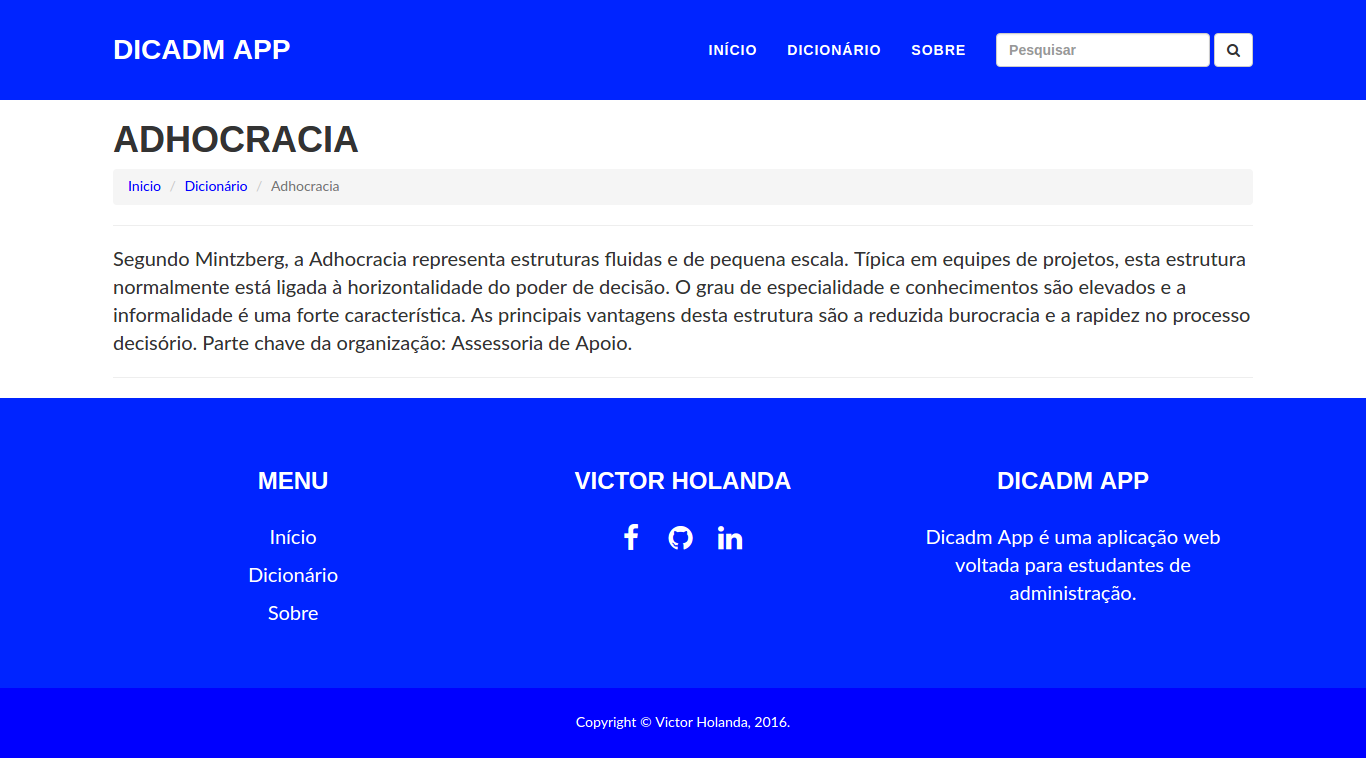
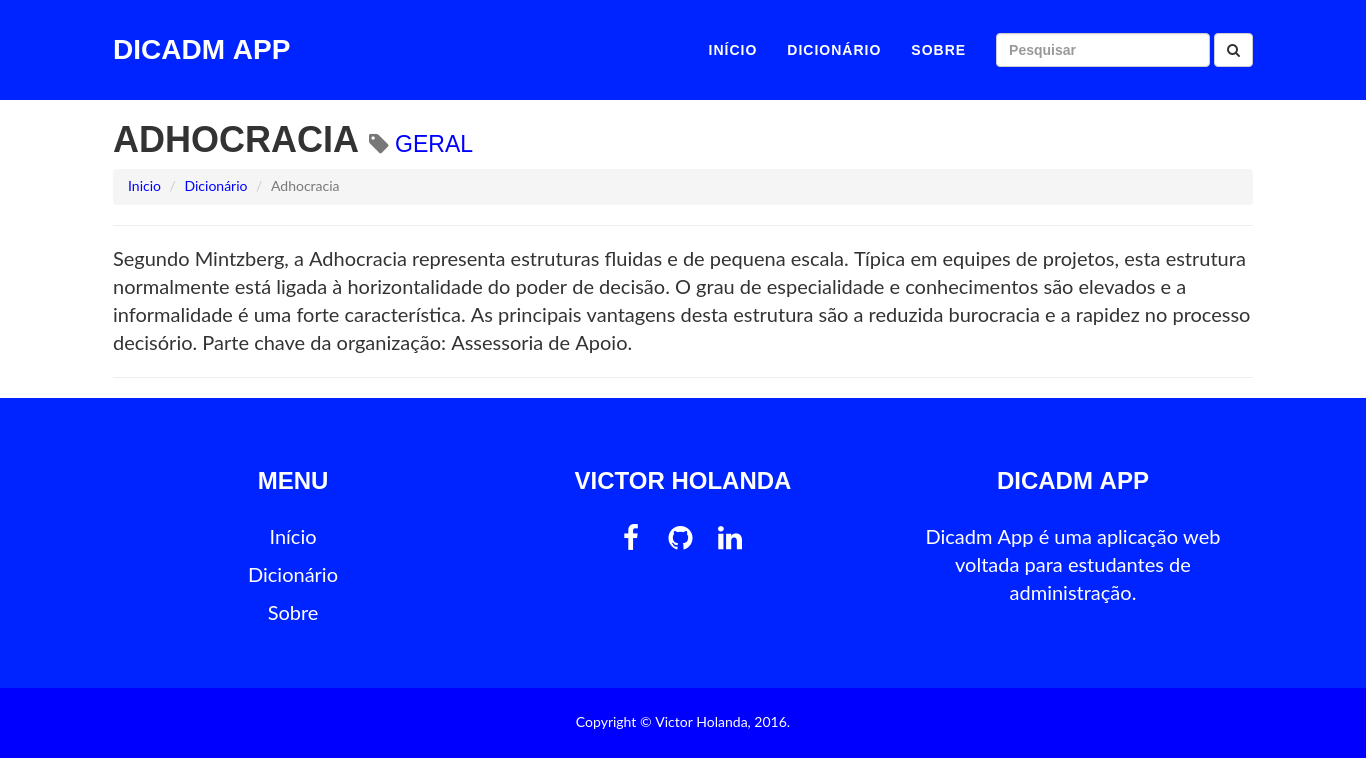
Added Category to Words

diff --git a/dicadm_django/dictionary/templates/dictionary/index.html b/dicadm_django/dictionary/templates/dictionary/index.html
@@ -6,15 +6,28 @@
 	<div class="container" style="margin-top:80px;">
 		
 	<div class="page-header">
-		<h1>{{title}}</h1>
+		<h1>{{title}}
+			{%if querycat%}<small><i class="fa fa-tag" aria-hidden="true"></i> {{querycat}}</small>{%endif%}
+		</h1>
 	</div>
-	<div>
-		<div class="list-group">
+	<div class="row">
+		<div class="list-group col-md-8">
 			{% for word in words %}
 				<a href="{{word.get_absolute_url}}" class="list-group-item">{{word}}</a>
 			{% empty %}
 				<a href="#" class="list-group-item">
-					Nenhum resultado encontrado para <strong>{{queryset}}</strong>! Por favor, tente outra palavra :).
+					Nenhum resultado encontrado{% if queryset != None %} para <strong>{{queryset}}</strong>{%endif%}! Por favor, tente outra palavra :).
+				</a>
+			{% endfor %}
+		</div>
+		<div class="list-group col-md-4">
+			<a href="" class="list-group-item active"><i class="fa fa-tag" aria-hidden="true"></i> Categorias</a>
+			<a href="?cat=todas" class="list-group-item">Todas</a>
+			{% for category in categories%}
+				<a href="?cat={{category.slug}}" class="list-group-item">{{category}}</a>
+			{% empty%}
+				<a href="#" class="list-group-item">
+					Categorias não encontradas
 				</a>
 			{% endfor %}
 		</div>
@@ -24,16 +37,26 @@
 		<nav class="text-center">
 		  <ul class="pagination">
 	        {% if words.has_previous %}
-		    	<li class="previous"><a href="?page={{ words.previous_page_number }}{%if request.GET.q %}&q={{ request.GET.q}}{% endif %}"><span aria-hidden="true">&laquo;</span></a></li>
+		    	<li class="previous">
+		    		<a href="?page={{ words.previous_page_number }}{%if request.GET.cat %}&cat={{ request.GET.cat}}{% endif %}{%if request.GET.q %}&q={{ request.GET.q}}{% endif %}">
+		    			<span aria-hidden="true">&laquo;</span>
+		    		</a>
+		    	</li>
 	        {% endif %}
 
 	       	{% for p in words.paginator.page_range %}
-			  <li {% if words.number == p %} class="active" {%endif%}><a href="?page={{p}}{%if request.GET.q %}&q={{ request.GET.q}}{% endif %}">{{p}}</a></li>
+			  <li {% if words.number == p %} class="active" {%endif%}>
+			  	<a href="?page={{p}}{%if request.GET.cat %}&cat={{ request.GET.cat}}{% endif %}{%if request.GET.q %}&q={{ request.GET.q}}{% endif %}">{{p}}</a>
+			  </li>
 	       	{% endfor %}
 
 
 	        {% if words.has_next %}
-		    	<li class="next"><a href="?page={{ words.next_page_number }}{%if request.GET.q %}&q={{ request.GET.q}}{% endif %}"><span aria-hidden="true">&raquo;</span></a></li>
+		    	<li class="next">
+		    		<a href="?page={{ words.next_page_number }}{%if request.GET.cat %}&cat={{ request.GET.cat}}{% endif %}{%if request.GET.q %}&q={{ request.GET.q}}{% endif %}">
+		    			<span aria-hidden="true">&raquo;</span>
+		    		</a>
+		    	</li>
 	        {% endif %}
 		  </ul>
 		</nav>

diff --git a/dicadm_django/dictionary/templates/dictionary/detail.html b/dicadm_django/dictionary/templates/dictionary/detail.html
@@ -7,7 +7,11 @@
 		
 
 	<div class="page-header">
-		<h1>{{word}}</h1>
+		<h1>{{word}} 
+			<small><i class="fa fa-tag" aria-hidden="true"></i>
+			<a href="{% url 'dictionary:index' %}?&cat={{word.category.slug}}">{{word.category}}</a>
+			</small>
+		</h1>
 		<ol class="breadcrumb">
 		  <li><a href="{% url 'core:index' %}">Inicio</a></li>
 		  <li><a href="{% url 'dictionary:index' %}">Dicionário</a></li>

diff --git a/populate.py b/populate.py
@@ -1,0 +1,105 @@
+import os
+
+
+# configuração vista em tango with django 1.9
+
+os.environ.setdefault('DJANGO_SETTINGS_MODULE',
+				'dicadm_django.settings')
+
+import django
+django.setup()
+
+from dicadm_django.dictionary.models import Category, Word
+
+def populate():
+	# First, we will create lists of dictionaries containing the words
+	# we want to add into each category.
+	# Then we will create a dictionary of dictionaries for our categories.
+	# This might seem a little bit confusing, but it allows us to iterate
+	# through each data structure, and add the data to our models.
+
+	# e.g. Administração Financeira
+	# af_words = [
+	# 	{
+	# 		"title": "Balanço Patrimonial BP", 
+	# 		"slug": "balanco-patrimonial-bp", 
+	# 		"description" :"É a demonstração contábil que tem por finalidade apresentar a situação patrimonial da empresa em determinado momento, e a sua composição e apresentação seguem o ritual definido pelo Conselho Federal de Contabilidade e pela Legislação Comercial, quanto à sua forma e à necessidade de serem elaborados por um profissional legalmente habilitado, para se ter credibilidade necessária junto aos órgãos  públicos,  instituições  financeiras  e  até  mesmo  aos  fornecedores."
+	# 	},
+	# ]
+
+	# Administração Geral
+	ag_words = [
+		{"title": "Adhocracia", "slug": "adhocracia", "description" :"Segundo Mintzberg, a Adhocracia representa estruturas fluidas e de pequena escala. Típica em equipes de projetos, esta estrutura normalmente está ligada à horizontalidade do poder de decisão. O grau de especialidade e conhecimentos são elevados e a informalidade é uma forte característica. As principais vantagens desta estrutura são a reduzida burocracia e a rapidez no processo decisório. Parte chave da organização: Assessoria de Apoio."	},
+		{"title": "Administração", "slug": "administracao", "description" :"A palavra Administração vem do latim, ad– que significa direção, tendência para, e minister – que significa subordinação ou obediência, ou seja, quem realiza uma função sob comando de outra ou presta serviço a outro, (CHIAVENATO, 2003)."},
+	]
+
+	# Administração Financeira
+	af_words = [
+		{"title": "Balanço Patrimonial BP", "slug": "balanco-patrimonial-bp", "description" :"É a demonstração contábil que tem por finalidade apresentar a situação patrimonial da empresa em determinado momento, e a sua composição e apresentação seguem o ritual definido pelo Conselho Federal de Contabilidade e pela Legislação Comercial, quanto à sua forma e à necessidade de serem elaborados por um profissional legalmente habilitado, para se ter credibilidade necessária junto aos órgãos  públicos,  instituições  financeiras  e  até  mesmo  aos  fornecedores."},
+		{"title" :"Capital de giro", "slug" :"capital-de-giro", "description" :"É o valor que a empresa necessita para cobrir seus gastos, antes da entrada dos recursos provenientes das vendas."},
+	]
+
+	# Administração de TI
+	ati_words = [
+		{"title": "BI Business Intelligence", "slug": "bi-business-intelligence", "description" :"É a coleta, organização e análise de informações que ajudam na gestão do negócio. Normalmente é realizado com apoio de softwares especialistas que ajudam na consolidação das informações e nas tomadas de decisões."},
+		{"title" :"Governança de TI", "slug" :"governanca-de-ti", "description" :"Estrutura de relações e processos que dirige e controla uma organização de TI a fim de atingir seu objetivo de adicionar valor ao negócio através do gerenciamento balanceado do risco com o retorno do investimento em tecnologia."},
+	]
+
+	# Administração Estratégia
+	ae_words =[
+		{"title" :"BSC Balanced Scorecard", "slug" :"bsc-balanced-scorecard", "description" :"E uma metodologia de medição e avaliação das alternativas estratégicas, desenvolvida pelos norte-americanos Robert Kaplan e David Norton. Têm como objetivos desta metodologia: simplificar a estratégia e a sua comunicação a todos os membros da organização; alinhar a organização com a estratégia; ligar a estratégia ao plano e ao orçamento anual e medir a eficácia da estratégia. É estruturada em torno de quatro questões (ou dimensões) centrais: Perspectiva do Cliente, Perspectiva dos Processos, Perspectiva Financeira e Perspectiva da Aprendizagem e Crescimento."},
+	]
+
+	# Administração de Marketing
+	mk_words = [
+		{"title" :"Market share","slug" :"market-share","description" :"\"Participação de mercado, em português, e é a fatia ou quota de mercado que uma empresa tem no seu segmento ou no segmento de um determinado produto. O Market Share serve para avaliar a força e as dificuldades de uma empresa, além da aceitação dos seus produtos.\""},
+		{"title" :"Marketing","slug" :"marketing","description" :"Estabelece relações entre a organização e seus clientes. Abrange as diferentes atividades de pesquisa e desenvolvimento de produtos, distribuição, preço, e promoção (publicidade e propaganda)."},
+	]
+
+	cats = {
+				"Geral": {"slug": "geral", "words": ag_words},
+				"Financeira": {"slug": "financeira", "words": af_words},
+				"Tecnologia da Informção": {"slug": "tecnologia-da-informacao", "words": ati_words},
+				"Estratégia" : {"slug":"estrategia", "words":ae_words},
+				"Marketing": {"slug": "marketing", "words": mk_words},
+			}
+
+
+	# The code below goes through the cats dictionary, then adds each category,
+	# and then adds all the associated words for that category.
+
+	for cat, cat_data in cats.items():
+		c = add_cat(cat, cat_data)
+		for p in cat_data["words"]:
+			add_word(c, p["title"], p["slug"], p["description"])
+
+
+	# Print
+	for c in Category.objects.all():
+		for p in Word.objects.filter(category=c):
+			print("- {0} - {1}".format(str(c), str(p)))
+
+
+def add_word(cat, title, slug, description, views=0):
+	p = Word.objects.get_or_create(category=cat, title=title)[0]
+	p.slug = slug
+	p.description = description
+	p.save()
+	return p
+
+
+def add_cat(name, cat_data):
+	c = Category.objects.get_or_create(name=name)[0]
+	c.slug = cat_data["slug"]
+	c.save()
+	return c
+
+
+# Start execution here!
+
+if __name__ == '__main__':
+	print("Iniciando script... \nPopulação do Banco de Dados de DICADM APP........")
+	populate()
+	cats, words = Category.objects.count(), Word.objects.count()
+	print("\nFim do script.....")
+	print("Categorias adiciondas: {0} \nPalavras adiciondas: {1}".format(cats, words))

diff --git a/dicadm_django/dictionary/migrations/0001_initial.py b/dicadm_django/dictionary/migrations/0001_initial.py
@@ -1,8 +1,9 @@
 # -*- coding: utf-8 -*-
-# Generated by Django 1.10 on 2016-08-22 01:16
+# Generated by Django 1.10 on 2016-10-14 23:52
 from __future__ import unicode_literals
 
 from django.db import migrations, models
+import django.db.models.deletion
 
 
 class Migration(migrations.Migration):
@@ -14,14 +15,26 @@ class Migration(migrations.Migration):
 
     operations = [
         migrations.CreateModel(
+            name='Category',
+            fields=[
+                ('id', models.AutoField(auto_created=True, primary_key=True, serialize=False, verbose_name='ID')),
+                ('name', models.CharField(max_length=120, unique=True, verbose_name='Nome')),
+                ('slug', models.SlugField(unique=True, verbose_name='Atalho')),
+                ('created_at', models.DateTimeField(auto_now_add=True, verbose_name='Criado em')),
+                ('updated_at', models.DateTimeField(auto_now=True, verbose_name='Atualizado em')),
+            ],
+        ),
+        migrations.CreateModel(
             name='Word',
             fields=[
                 ('id', models.AutoField(auto_created=True, primary_key=True, serialize=False, verbose_name='ID')),
                 ('title', models.CharField(max_length=120, verbose_name='Título')),
                 ('slug', models.SlugField(unique=True, verbose_name='Atalho')),
                 ('description', models.TextField(verbose_name='Descrição')),
+                ('views', models.IntegerField(default=0, verbose_name='Visualizações')),
                 ('created_at', models.DateTimeField(auto_now_add=True, verbose_name='Criado em')),
                 ('updated_at', models.DateTimeField(auto_now=True, verbose_name='Atualizado em')),
+                ('category', models.ForeignKey(on_delete=django.db.models.deletion.CASCADE, to='dictionary.Category')),
             ],
         ),
     ]

diff --git a/seed.py b/seed.py
@@ -1,8 +1,10 @@
-from dicadm_django.dictionary.models import Word
+from dicadm_django.dictionary.models import Word, Category
 
 def populate():
 	print("\nPopulando Banco de Dados...............")
 	print("Total: %d" %( Word.objects.count() ) )
+	category = Category(name="Administração Geral", slug="administracao-geral")
+
 	word1 = Word(title = "Ações de processamento",slug = "acoes-de-processamento",description = "São atividades que são executadas a partir de uma ou várias entradas e que produzirão uma ou várias saídas.")
 	word2 = Word(title = "Adhocracia",slug = "adhocracia",description = "Segundo Mintzberg, a Adhocracia representa estruturas fluidas e de pequena escala. Típica em equipes de projetos, esta estrutura normalmente está ligada à horizontalidade do poder de decisão. O grau de especialidade e conhecimentos são elevados e a informalidade é uma forte característica. As principais vantagens desta estrutura são a reduzida burocracia e a rapidez no processo decisório. Parte chave da organização: Assessoria de Apoio.")
 	word3 = Word(title = "Administração",slug = "administracao",description = "A palavra Administração vem do latim, ad– que significa direção, tendência para, e minister – que significa subordinação ou obediência, ou seja, quem realiza uma função sob comando de outra ou presta serviço a outro, (CHIAVENATO, 2003).")

diff --git a/dicadm_django/dictionary/views.py b/dicadm_django/dictionary/views.py
@@ -4,7 +4,7 @@ from django.core.paginator import Paginator, EmptyPage, PageNotAnInteger
 
 from django.db.models import Q
 
-from .models import Word
+from .models import Word, Category
 
 # Create your views here.
 
@@ -12,16 +12,27 @@ def index(request):
 	template_name = "dictionary/index.html"
 	title = "Dicionário"
 	words = Word.objects.all()
+	categories = Category.objects.all()
 
 	query = request.GET.get('q')
+	queryc = request.GET.get('cat')
+
+	if queryc: 
+		if queryc == "todas":
+			words = words
+		else:
+			words = words.filter(
+					Q(category__name__icontains=queryc) | 
+					Q(category__slug__icontains=queryc)
+				).distinct()
+
 	if query: 
 		words = words.filter(
 				Q(title__icontains=query) |
-				Q(slug__icontains=query) |
-				Q(description__icontains=query)
+				Q(slug__icontains=query)
 			).distinct()
 
-	paginator = Paginator(words, 20)
+	paginator = Paginator(words, 5)
 	page = request.GET.get('page')
 	try:
 		words = paginator.page(page)
@@ -33,8 +44,11 @@ def index(request):
 	context = {
 		'title' : title,
 		'words' : words,
-		'queryset' : query
+		'categories' : categories,
+		'queryset' : query,
+		'querycat' : queryc
 	}
+
 	return render(request, template_name, context)
 
 def detail(request, slug):

diff --git a/dicadm_django/dictionary/admin.py b/dicadm_django/dictionary/admin.py
@@ -2,15 +2,38 @@ from django.contrib import admin
 
 # Register your models here.
 
-from .models import Word
+from .models import Word, Category
+
+class CategoryAdmin(admin.ModelAdmin):
+	list_display = ['name', 'slug', 'created_at', 'updated_at']
+	prepopulated_fields = {'slug': ('name',)}
+	list_filter = ['updated_at', 'created_at']
+	search_fields = ['name']
+
+	class Meta:
+		model = Category
+
+		verbose_name = "Categoria"
+		verbose_name_plural = 'Categorias'
+
+		def __str__(self):
+			return self.name
+
 
 class WordAdmin(admin.ModelAdmin):
-	list_display = ['title', 'slug', 'created_at', 'updated_at']
+	list_display = ['title', 'slug', 'category', 'created_at', 'updated_at']
 	prepopulated_fields = {'slug': ('title',)}
-	list_filter = ['updated_at', 'created_at']
-	search_fields = ['title', 'description']
+	list_filter = ['updated_at', 'created_at', 'category']
+	search_fields = ['title', 'description', 'category']
 
 	class Meta:
 		model = Word
 
+		verbose_name = "Palavra"
+		verbose_name_plural = "Palavras"
+
+		def __str__(self):
+			return self.name
+
 admin.site.register(Word, WordAdmin)
+admin.site.register(Category, CategoryAdmin)

diff --git a/dicadm_django/dictionary/models.py b/dicadm_django/dictionary/models.py
@@ -2,11 +2,26 @@ from django.db import models
 
 from django.core.urlresolvers import reverse
 
+class Category(models.Model):
+
+	name = models.CharField('Nome', max_length=120, unique=True)
+	slug = models.SlugField('Atalho', unique=True)
+
+	created_at = models.DateTimeField('Criado em', auto_now_add=True)
+	updated_at = models.DateTimeField('Atualizado em', auto_now=True)
+	
+	def __str__(self):
+		return self.name
+
+
 class Word(models.Model):
+	category = models.ForeignKey(Category)
 
 	title = models.CharField('Título', max_length=120)
 	slug = models.SlugField('Atalho', unique=True)
 	description = models.TextField('Descrição')
+
+	views = models.IntegerField('Visualizações', default=0)
 
 	created_at = models.DateTimeField('Criado em', auto_now_add=True)
 	updated_at = models.DateTimeField('Atualizado em', auto_now=True)

diff --git a/README.md b/README.md
@@ -14,6 +14,9 @@ Inicialmente a aplicação foi pensada para ser um dicionário de termos técnic
 
 ![Dicionário](_design/screenshot/dictionary.png "Página de pesquisa")
 
+![Detalhe: Adhocracia](_design/screenshot/adhocracia.png "Detalhe da pesquisa: Adhocracia")
+
+
 ## Tecnologias utilizadas
 
 * [Python](https://www.python.org/) 3.5
@@ -55,13 +58,13 @@ Inicialmente a aplicação foi pensada para ser um dicionário de termos técnic
 
 7. Popule o banco de dados:
 
-`./manage.py shell < seed.py`
+`python populate.py`
 
 8. Teste a aplicação:
 
 `./manage.py test`
 
-A aplicação não está 100% testada.
+**A aplicação não está 100% testada.**
 
 9. Rode o servidor:
 
@@ -80,7 +83,8 @@ A aplicação não está 100% testada.
 - [x] Pesquisa de termos
 - [x] Paginação de resultados
 - [x] Refatorar código, tema (2)
+- [x] Adicionar categoria de palavras
 - [ ] Acesso de usuários
-- [ ] Adicionar função "gostei"
+- [ ] Adicionar função "gostei" e "visualização"
 - [ ] Api para aplicativo mobile
 - [ ] Adicionar função "favoritos"
